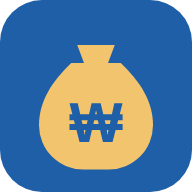
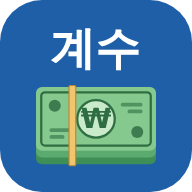
앱 아이콘 변경: 파란 바탕 '계수' + 띠지 두른 초록 지폐 다발
글꼴에 상관없이 똑같이 보이도록 PNG로 만들어 넣고(512/192/애플 180/파비콘 64), 원본 SVG는 design/에 보관.

Claude-Session: https://claude.ai/code/session_01Ad8F32HFpMNYXS67piLJwx

diff --git a/index.html b/index.html
@@ -7,8 +7,8 @@
     <meta name="apple-mobile-web-app-capable" content="yes" />
     <meta name="apple-mobile-web-app-title" content="현금 계수" />
     <link rel="manifest" href="./manifest.webmanifest" />
-    <link rel="icon" href="./icon.svg" type="image/svg+xml" />
-    <link rel="apple-touch-icon" href="./icon-192.png" />
+    <link rel="icon" href="./favicon.png" type="image/png" />
+    <link rel="apple-touch-icon" href="./apple-touch-icon.png" />
     <title>현금 계수</title>
   </head>
   <body>
